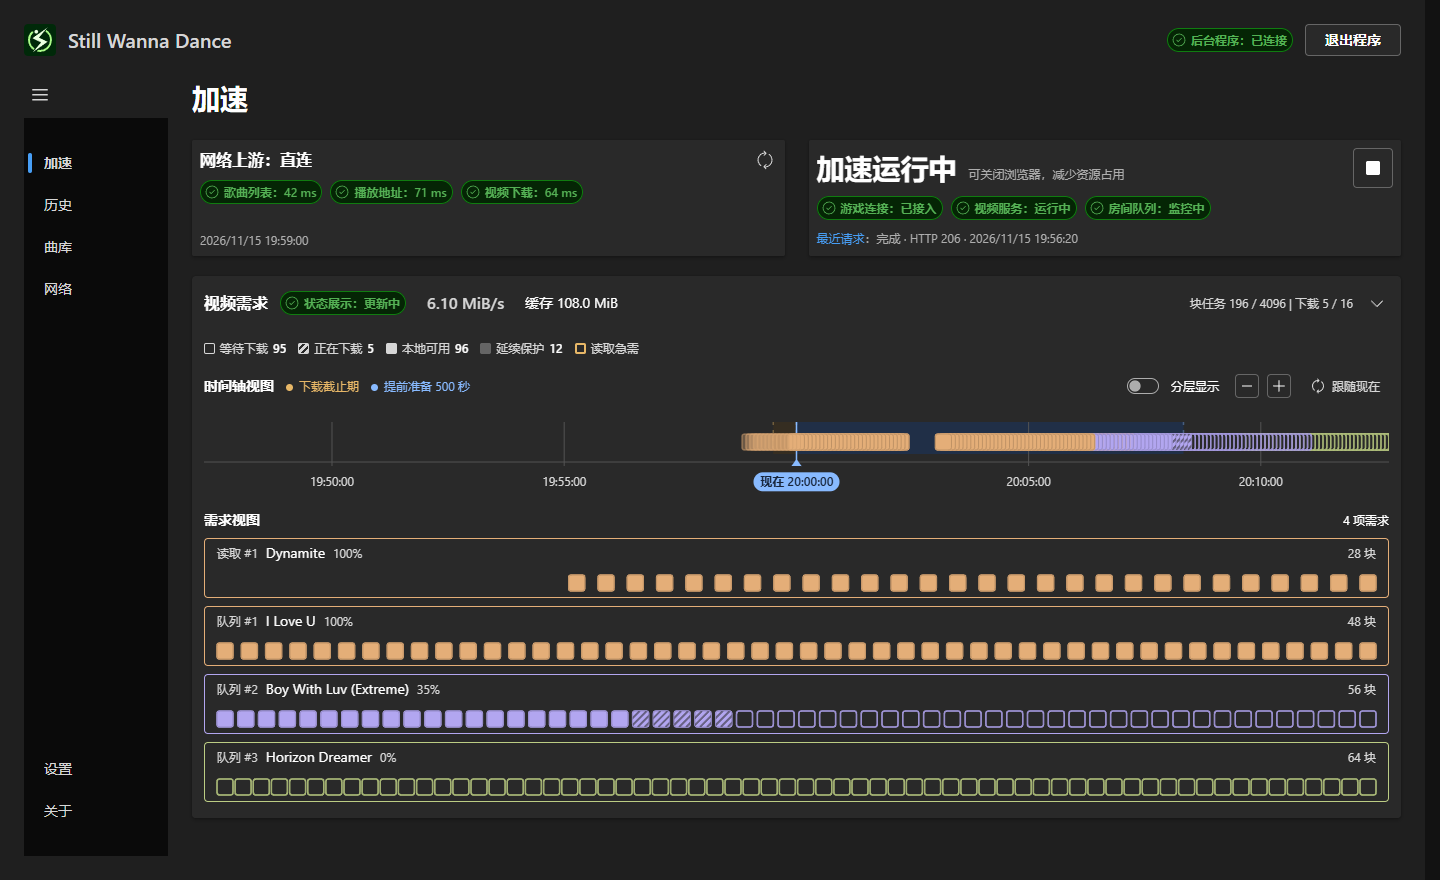
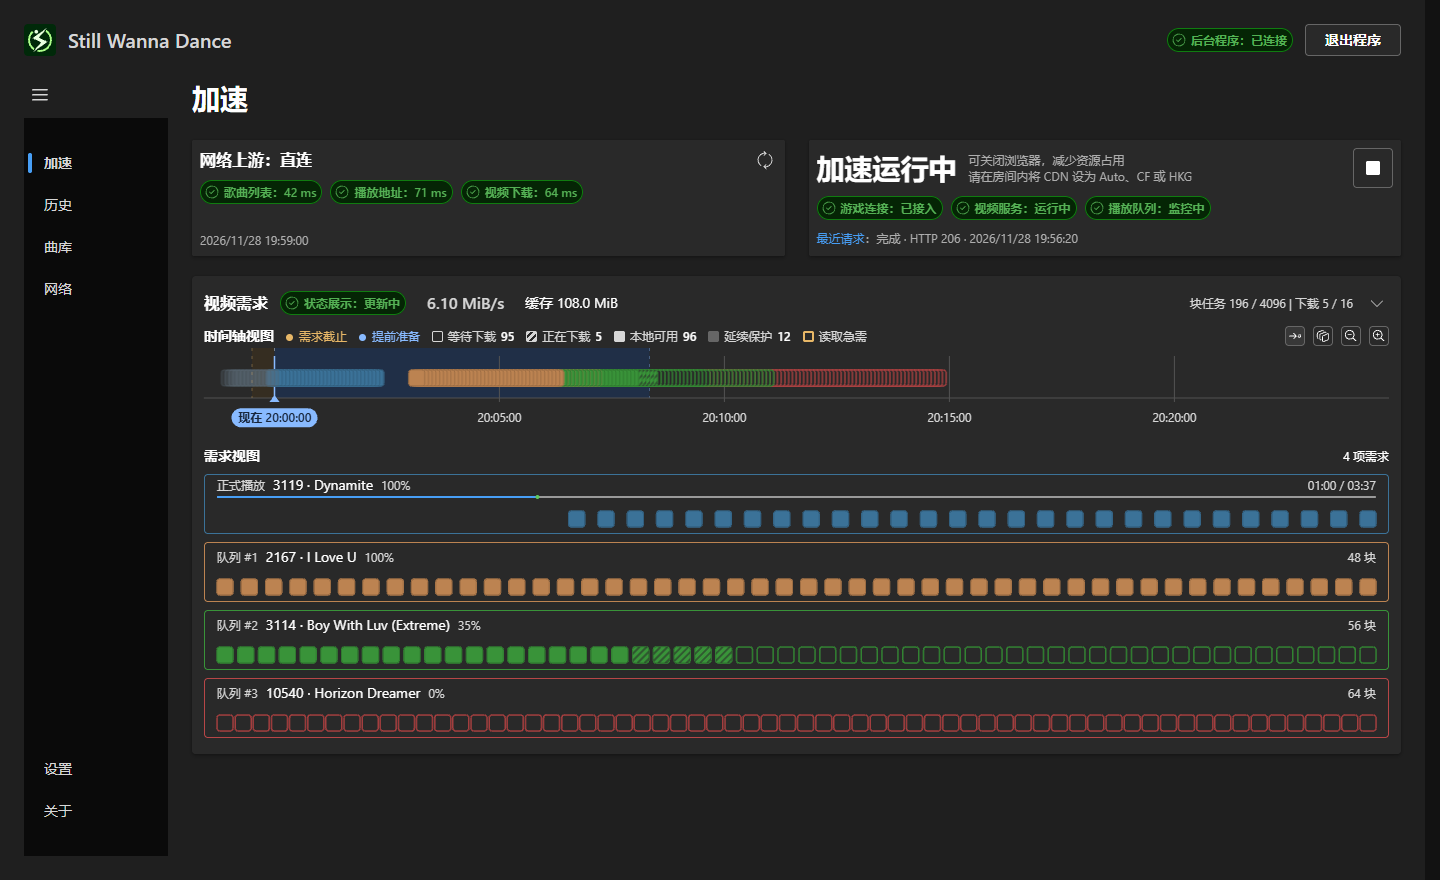
docs(readme): update connection guidance and WebUI previews

diff --git a/README.en.md b/README.en.md
@@ -32,41 +32,43 @@ A **[global block scheduler driven by playback timing](docs/block-scheduler-desi
 
 - **Prepare videos ahead of time**: preload the room queue and stream while downloading.
 - **Manage your library**: search, preview, favorite, or block songs; import existing videos and download missing ones.
-- **Plan your storage**: prioritize frequent picks within a budget, retain favorites, and import preferences from VRCX history.
-- **See and control downloads**: check speed, progress, and request history; choose direct connections, external SOCKS5, or embedded Mihomo nodes and inspect their connection status.
+- **Plan your storage**: give frequent picks and favorites priority within your budget. You can also use your VRCX playback history to prioritize videos for download and retention.
+- **Flexible connections**: by default, SWD dynamically selects CF IP addresses and downloads in parallel, which works for most use cases. You can also switch to built-in Mihomo (Clash) or an external SOCKS5 service.
 
 ## A look inside
 
 **Acceleration: connection status, download progress, and upcoming video demands.**
 
-![Dark WebUI acceleration page showing upstream and game connections, a single-layer block timeline, current playback, and queue preloading progress](docs/images/webui-acceleration.png)
+![Dark WebUI acceleration page showing game connection status, a video block timeline, the current song ID and room playback progress, and preloading for the next three songs](docs/images/webui-acceleration.png)
 
 <details>
-<summary>More screenshots: library and history</summary>
+<summary>More screenshots: library and network</summary>
 
 **Library: browse song covers, search, manage favorites, preview videos, and manage local files.**
 
 ![Dark WebUI library page showing the default cover view, song search, favorites, and per-song action menus](docs/images/webui-library.png)
 
-**History: look up playback requests, delivery results, response sources, and time to first video data.**
+**Network: the Current connection card shows direct routes for the song catalog, playback URL resolution, and video downloads.**
 
-![Dark WebUI history page showing response source shares, response time statistics, time filters, and sample playback requests for real songs](docs/images/webui-history.png)
+![Three route lists on the Current connection card showing full catalog fetch time, time to first byte for playback URLs, and time to download a full 1 MiB video block](docs/images/webui-network.png)
 
 </details>
 
-These screenshots show the current WebUI with public song metadata and available covers for top-ranked songs in the bundled default scores. Missing covers use the app's bundled category artwork. Speeds, progress, requests and statistics, favorites, and local availability are sample data, not benchmark results. The interface supports light, dark, and system themes. Screenshots and detailed guides are currently in Chinese.
+These screenshots show the current WebUI with public song metadata and available covers for top-ranked songs in the bundled default scores. Missing covers use the app's bundled category artwork. The Network screenshot uses IPs from the bundled Cloudflare list. Timings, speeds, download progress, favorites, and local availability are sample data, not benchmark results. The interface supports light, dark, and system themes. Screenshots and detailed guides are currently in Chinese.
 
 ## Quick start
 
 1. **Download and run.** Get the Windows x64 portable ZIP from [Releases](https://github.com/SW26010/still-wanna-dance/releases), extract the whole package to a writable folder, and run `SWD.exe`.
 2. **Read and accept the terms.** The app opens the WebUI by default and prepares your configuration, database, and video folders automatically.
-3. **Start acceleration.** Click `加速 → 开始加速`, complete Windows authorization when prompted, then enter WannaDance and request a song. Check connection and download status in the WebUI.
+3. **Start acceleration and request a song.** Click `加速 → 开始加速` and approve the Windows prompt if it appears. Enter WannaDance, set the CDN to **Auto, CF, or HKG** in the room settings, then request a song.
 
 **Why does it need administrator permission?** SWD modifies the Windows hosts file to route WannaDance playback requests through your PC. By default, stopping acceleration or exiting normally restores the routing SWD configured; restoration failures are reported. See [game routing and restoration](docs/console.md#hosts).
 
 **Want to keep videos for next time?** By default, SWD uses temporary blocks without retaining ordinary complete videos. You can choose a storage budget or unlimited retention under Settings → Storage (`设置 → 存储`), save, and restart when prompted. You can try acceleration with the defaults first.
 
-Closing the browser leaves acceleration and queue preloading running. Reopen the WebUI from the tray, or choose `退出程序` to exit. If you disabled automatic routing restoration, enable and save it again before disabling or uninstalling SWD, then exit normally and check the result. See the [user guide](docs/console.md#hosts) for the setting.
+Closing the browser leaves acceleration and queue preloading running. Reopen the WebUI from the tray, or choose `退出程序` to exit.
+
+**How do I restore the game's direct connection?** Before you stop using or uninstall SWD, open About → Help → Backups and upgrades (`关于 → 使用帮助 → 备份与升级`) and click Restore direct connection (`恢复游戏直连`). This stops acceleration and works even if you disabled automatic restoration. Exit the app once it confirms that routing was restored or that no restoration was needed. See [game routing and restoration](docs/console.md#hosts).
 
 ## Common questions
 
@@ -74,7 +76,7 @@ Closing the browser leaves acceleration and queue preloading running. Reopen the
 
 **Can I play completely offline?** If a song mapping and usable local file already exist, SWD can serve the video locally. This is not a complete offline mode; missing videos and other game functions may still need the network.
 
-**How can I confirm the game is using SWD?** Start acceleration, request a song in the game, and look for its playback requests in Video Demands or History. Backend connection status means the WebUI can reach SWD; game connection status means routing is configured. If no request arrives, try rejoining the world or restarting VRChat to refresh DNS. If requests arrive but downloading is slow, check the upstream connection on the Network page.
+**How can I confirm the game is using SWD?** Request a song in the game, then click Recent request (`最近请求`) on the Acceleration page to open History. Look for a new entry matching the time and song. Video Demands (`视频需求`) also lists songs being preloaded from the room queue. The backend connection badge shows whether the WebUI can reach SWD. The game connection badge shows whether routing is configured. If no new request appears, check that the room CDN is set to Auto, CF, or HKG, then try rejoining the world or restarting VRChat. If requests arrive but downloads are slow, run a speed test on the Network page.
 
 **Is the video budget a hard disk limit?** No. It governs retention of complete videos, including favorites. When priority retention is enabled, favorites are kept first within the same budget but can still be removed when space is insufficient. Temporary blocks, the database, and videos in use can take disk usage above that budget. “Do not retain” still permits temporary disk writes.
 

diff --git a/docs/evidence-storage.md b/docs/evidence-storage.md
@@ -81,9 +81,9 @@ Web UI 的 `app.js` 是离线构建所需的生成产物。`pnpm --dir webui bui
 
 `docs/images/` 保存中英文 README 直接引用的产品展示素材。`logo-dark.svg` 从 `internal/branding/logo.svg` 生成，只将已有暗色配色固定启用，品牌图形仍以原文件为准。
 
-三个 PNG（`webui-acceleration.png`、`webui-library.png`、`webui-history.png`）是当前生产 WebUI 在暗色模式下的浏览器截图，曲库使用默认封面视图，以完整一页 50 首歌填满视口。歌曲按内置默认分数降序选取；真实歌曲资料来自公开 Udon 清单 `20261028232411`，`webui/test-support/readme-songs.json` 仅保留展示字段和源摘要，与 `data/media-seed/media-seed.json` 核对；分数、资源映射和大小读取仓库内置数据。歌曲封面沿用产品的公开来源 `https://aya.kiva.moe/images/small<ID>.jpg`，首次采集下载到忽略目录 `artifacts/readme-refresh/covers/`，后续复用。路径、速度、进度、请求、收藏与本地保存状态等仍为示例；历史页的响应来源和响应时间统计由同一组示例请求计算，不读取个人历史。不含私人资料，不作为性能或游戏验收证据。为使仓库首页可直接显示，按精确路径、字节数与 SHA256 登记为 `readme-screenshot` 例外；每张不得超过 256 KiB，不放宽其他图片或实验附件的归档规则。已移除的设置截图只保留历史版本的精确登记，供 Git 历史检查。
+三个 PNG（`webui-acceleration.png`、`webui-library.png`、`webui-network.png`）是当前生产 WebUI 在暗色模式下的浏览器截图，曲库使用默认封面视图，以完整一页 50 首歌填满视口。歌曲按内置默认分数降序选取；真实歌曲资料来自公开 Udon 清单 `20261028232411`，`webui/test-support/readme-songs.json` 仅保留展示字段和源摘要，与 `data/media-seed/media-seed.json` 核对；分数、资源映射和大小读取仓库内置数据。歌曲封面沿用产品的公开来源 `https://aya.kiva.moe/images/small<ID>.jpg`，首次采集下载到忽略目录 `artifacts/readme-refresh/covers/`，后续复用。路径、速度、进度、请求、收藏与本地保存状态等仍为示例。网络图截取「当前连接」整张卡片，三组列表的 IP 选自内置 CF IP 列表，耗时和速度为示例值。不含私人资料，不作为性能或游戏验收证据。为使仓库首页可直接显示，按精确路径、字节数与 SHA256 登记为 `readme-screenshot` 例外；每张不得超过 256 KiB，不放宽其他图片或实验附件的归档规则。已移除的历史页和设置截图只保留历史版本的精确登记，供 Git 历史检查。
 
-加速页截图采用 1440 × 880 视口，展开单层时间轴，展示当前读取与三首队列歌曲，不加入无期限手动任务；只调整展示状态与示例数据，产品仍默认收起时间轴。
+加速页截图采用 1440 × 880 视口，展开默认收起的单层时间轴。正式播放行展示歌曲 ID、房间播放进度和本地可用比例，下方三行展示队列歌曲的预加载情况。
 
 安装 `webui` 依赖并确认前端构建产物为当前版本后，从仓库根目录执行（Node.js 22.18+，本机 Edge，18473 端口未被占用）：
 
@@ -92,6 +92,6 @@ Web UI 的 `app.js` 是离线构建所需的生成产物。`pnpm --dir webui bui
 pnpm --package=sharp-cli@5.2.0 dlx sharp -i artifacts/readme-refresh/webui-library.raw.png -o docs/images/webui-library.png --palette --colors 256 --dither 0 --effort 6 --quality 90
 ```
 
-脚本复用浏览器夹具，输出 Logo、加速页、历史页及忽略目录 `artifacts/readme-refresh/` 中的曲库原始截图和采集结果；封面返回 404 时沿用产品内置类别封面，不跳过歌曲。第二条命令用固定版本的临时工具将曲库图编码为 256 色 PNG，控制体积，不修改项目依赖。首次采集需联网下载公开歌曲封面及压缩工具，不启动程序、游戏或修改 hosts。更新后人工检查图像及示例数据，追加新截图的精确例外，保留历史版本登记供提交历史检查。
+脚本复用浏览器夹具，输出 Logo、加速页、当前连接卡片及忽略目录 `artifacts/readme-refresh/` 中的曲库原始截图和采集结果；封面返回 404 时沿用产品内置类别封面，不跳过歌曲。第二条命令用固定版本的临时工具将曲库图编码为 256 色 PNG，控制体积，不修改项目依赖。首次采集需联网下载公开歌曲封面及压缩工具，不启动程序、游戏或修改 hosts。更新后人工检查图像及示例数据，追加新截图的精确例外，保留历史版本登记供提交历史检查。
 
 内嵌代理面板的唯一归档例外为 internal/dashboard/assets/zashboard.zip：固定原版发布包供 EXE 离线服务，必须匹配精确路径、字节数、SHA256，并随发行附许可与固定源码/依赖。此产品资源不允许任意 ZIP、实验结果或私人配置借用例外。版本更新须同时审阅 release.json、声明和对应源码输入。
